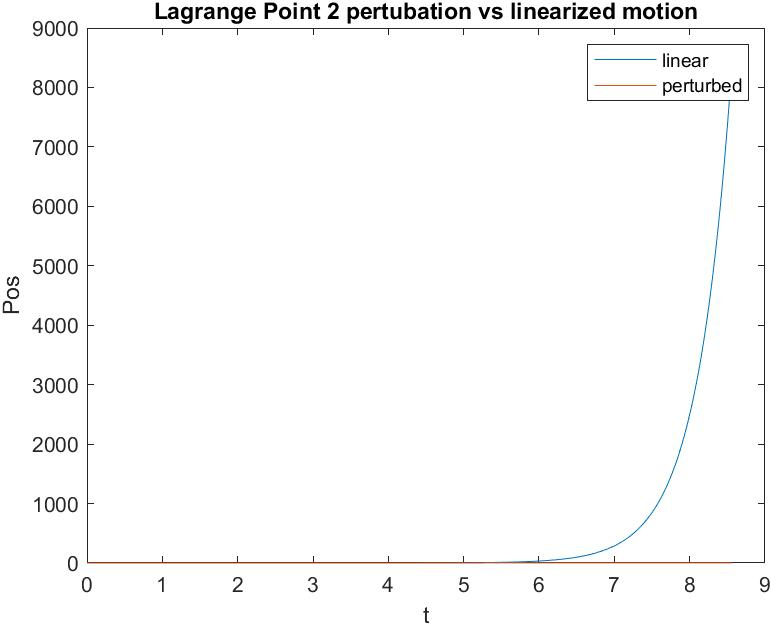
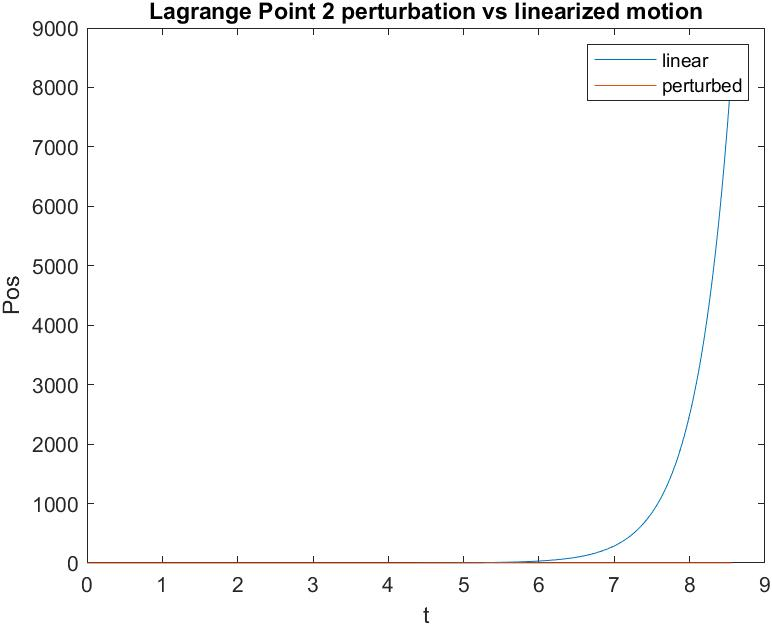
small change + more graphs

Changed region(s): [[0.1865, 0.0, 0.9326, 0.0607]]

diff --git a/AERSP304_Proj1.m b/AERSP304_Proj1.m
@@ -79,13 +79,14 @@ plot (t, departX(:,1))
 title('Lagrange Point 2 perturbation position')
 xlabel('t')
 ylabel('delta x')
+exportgraphics(ax,'L2_PerturbedPos.jpg')
 subplot(2,1,2)
 plot (t, departX(:,2))
 title('Lagrange Point 2 perturbation velocity')
 xlabel('t')
 ylabel('delta x')
 ax = gca ;
-exportgraphics(ax,'L2_Perturbed.jpg')
+exportgraphics(ax,'L2_PerturbedVel.jpg')
 
 % linear comparison plot
 figure
@@ -154,13 +155,14 @@ plot (t, departX(:,1))
 title('Lagrange Point 4 pertubation position')
 xlabel('t')
 ylabel('delta x')
+exportgraphics(ax,'L4_PerturbedPos.jpg')
 subplot(2,1,2)
 plot (t, departX(:,2))
 title('Lagrange Point 4 pertubation velocity')
 xlabel('t')
 ylabel('delta x')
 ax = gca ;
-exportgraphics(ax,'L4_Perturbed.jpg')
+exportgraphics(ax,'L4_PerturbedVel.jpg')
 
 
 
